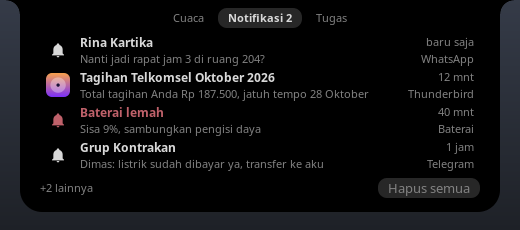
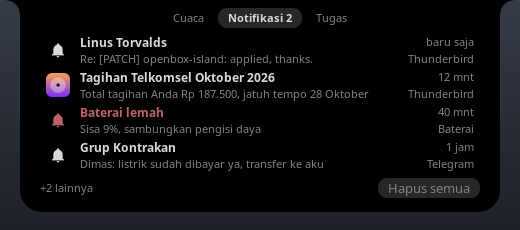
docs(assets): use Linus Torvalds as the sample notification sender

Changed region(s): [[0.1538, 0.2435, 0.6154, 0.2739], [0.1538, 0.1522, 0.3385, 0.213], [0.7692, 0.2435, 0.9231, 0.2739]]

diff --git a/README.md b/README.md
@@ -74,7 +74,7 @@ Full behaviour reference: [docs/fitur.md](docs/fitur.md) (Indonesian).
 <p align="center">
   <img src="docs/assets/demo.gif" alt="Rendered demo: music pill with visualizer, card tabs, volume alert, notification" width="520">
   <br>
-  <sub>Rendered from sample data with <code>tools/showcase</code>: music pill, card tabs Music → Weather → Notifications → To-do → Shortcuts, a volume alert and a WhatsApp notification.</sub>
+  <sub>Rendered from sample data with <code>tools/showcase</code>: music pill, card tabs Music → Weather → Notifications → To-do → Shortcuts, a volume alert and an email from Linus Torvalds.</sub>
 </p>
 
 ## Gallery
